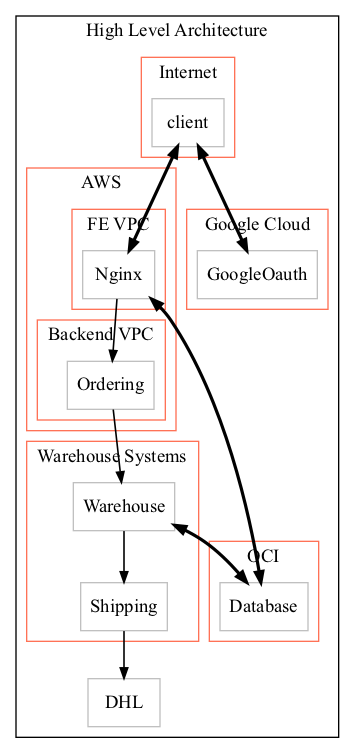
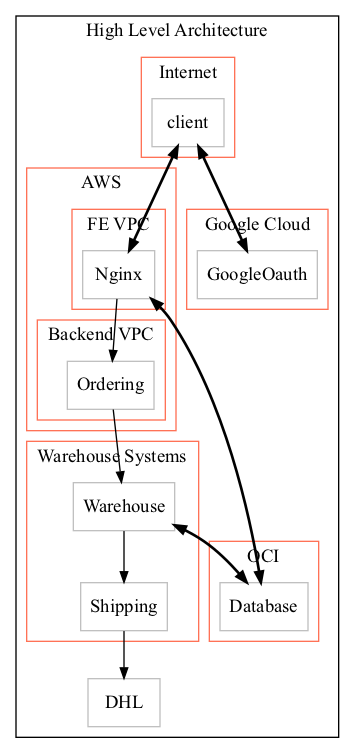
Changed font size for labells

diff --git a/src/jtg.py b/src/jtg.py
@@ -2,7 +2,7 @@ import json, subprocess, sys
 
 from util import search, Dot
 
-#This is ugly
+#XXX: This is ugly
 ARCH = "High Level Architecture"
 
 def drawRecursiveBoundaries(doc, boundaryKey, graph, drawnBoundaries=None):
@@ -31,7 +31,7 @@ def genGraph(doc, sceneName, compoundLinks=False, linkCounters=True, printLabels
     _STYLES = {
         'boundary':'color="Red"',
         'node':'shape="Box"',
-        'link':'fontsize="10"'
+        'link':'fontsize="22"'
     }
 
     graphContainer = graph.newSubgraph(sceneName, style='color="Black"')
@@ -71,7 +71,7 @@ def genGraph(doc, sceneName, compoundLinks=False, linkCounters=True, printLabels
             flowLabel = flowLabel + flow["data"]
 
         link = graph.newLink(
-            drawnActors[flow["from"]], drawnActors[flow["to"]], label=flowLabel
+            drawnActors[flow["from"]], drawnActors[flow["to"]], label=flowLabel, style='fontsize="14",penwidth="1.2",arrowsize="0.8"'
         )
 
     return graph
